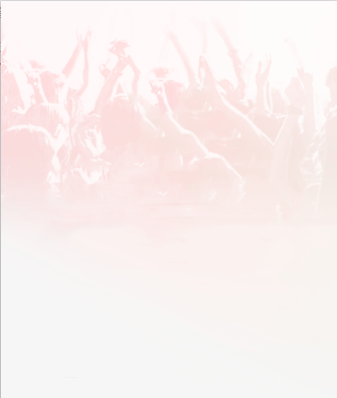
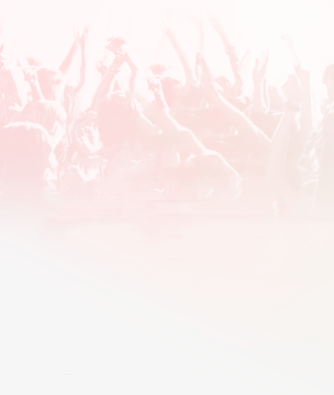
try to add shadow to stage's scene.

diff --git a/src/main/resources/css/NavigateLoginOrRegisterStyle.css b/src/main/resources/css/NavigateLoginOrRegisterStyle.css
@@ -1,7 +1,14 @@
+AnchorPane
+{
+    -fx-border-color: RED;
+}
 BorderPane
 {
     -fx-background-image: url("/image/NavigateLoginOrRegisterBackground.png");
     -fx-background-size: 100% 100%;
+    -fx-background-color: #FAFAFC;
+    -fx-padding: 2 2 2 2;
+    -fx-effect: dropshadow(three-pass-box, #C2C2C4, 10, 0, -2, 0);
 }
 .button
 {

diff --git a/src/main/java/util/WindowUtils.java b/src/main/java/util/WindowUtils.java
@@ -163,7 +163,7 @@ public final class WindowUtils {
 	 * 参见StackOverflow的提问：https://stackoverflow.com/questions/26972683/javafx-minimizing-undecorated-stage
 	 * **/
 	public static void addWindowsPlatformTaskBarIconifyBehavior(){
-//		if (WindowUtils.isWindowsPlatform()){  //判断当前os是否为Windows，如果是才执行
+		if (WindowUtils.isWindowsPlatform()){  //判断当前os是否为Windows，如果是才执行
 			long lhwnd = com.sun.glass.ui.Window.getWindows().get(0).getNativeWindow();
 			Pointer lpVoid = new Pointer(lhwnd);
 			WinDef.HWND hwnd = new WinDef.HWND(lpVoid);
@@ -171,7 +171,7 @@ public final class WindowUtils {
 			int oldStyle = user32.GetWindowLong(hwnd, GWL_STYLE);
 			int newStyle = oldStyle | 0x00020000;//WS_MINIMIZEBOX
 			user32.SetWindowLong(hwnd, GWL_STYLE, newStyle);
-//		}
+		}
 	}
 
 	/**判断是否为Windows平台的函数

diff --git a/src/main/java/application/FXApplication.java b/src/main/java/application/FXApplication.java
@@ -41,9 +41,9 @@ public class FXApplication extends Application {
             primaryStage.initStyle(StageStyle.UNDECORATED);   //去掉Windows自带的标题栏
             WindowUtils.addResizable(primaryStage,860,570);  //为primaryStage添加自由缩放
             WindowUtils.addLocateCenter(primaryStage);  //为primaryStage添加一些GUI的修复代码
-            WindowUtils.addWindowsPlatformTaskBarIconifyBehavior();  //为primaryStage添加Windows平台显示窗体时单击任务栏图标可以最小化
         }
         primaryStage.show();  //显示主舞台
+        WindowUtils.addWindowsPlatformTaskBarIconifyBehavior();  //为primaryStage添加Windows平台显示窗体时单击任务栏图标可以最小化
     }
 
     @Override

diff --git a/src/main/java/controller/BottomController.java b/src/main/java/controller/BottomController.java
@@ -13,7 +13,6 @@ import javafx.scene.control.Slider;
 import javafx.scene.input.MouseButton;
 import javafx.scene.input.MouseEvent;
 import javafx.scene.layout.*;
-import javafx.scene.media.Media;
 import javafx.scene.media.MediaPlayer;
 import javafx.scene.paint.Color;
 import javafx.util.Duration;
@@ -175,7 +174,7 @@ public class BottomController {
                 vBox.getChildren().add(new Button("test"));
                 vBox.getChildren().add(new Button("test"));
 
-                Region region = (Region) stackPane;
+                Region region = stackPane;
 
                 stackPane.getChildren().add(vBox);
                 stackPane.setAlignment(Pos.BOTTOM_LEFT);
